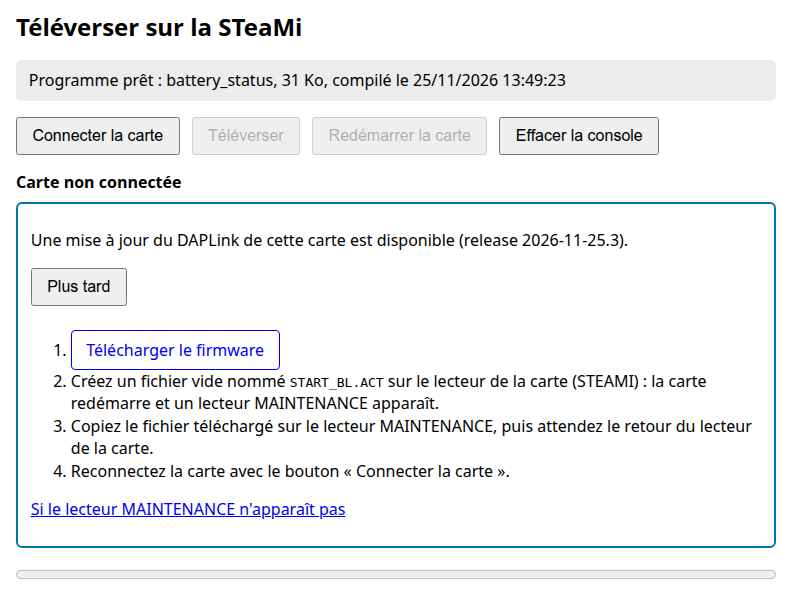
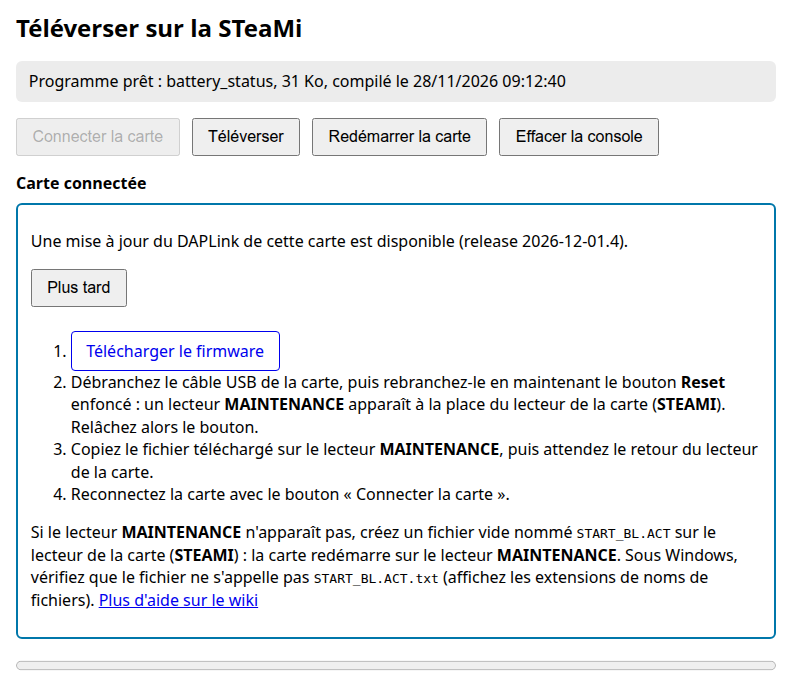
docs(software): capture de l'encart DAPLink avec l'étape Reset (image 2026.11.12)
La capture de la page Téléverser montre maintenant l'étape du bouton Reset et le secours START_BL.ACT de l'image 2026.11.12. La phrase sur les images jusqu'à 2026.11.11 reste, sans renvoyer à la capture.

Refs #261

diff --git a/docs/software/arduino/codespace.md b/docs/software/arduino/codespace.md
@@ -174,9 +174,9 @@ Cliquer sur **Mettre à jour…** affiche les étapes :
 3. Copier le fichier téléchargé sur le lecteur **MAINTENANCE**, puis attendre que le lecteur de la carte revienne.
 4. Cliquer sur **Connecter la carte** : si la mise à jour a réussi, l'encart disparaît.
 
-Jusqu'à la version 2026.11.11 de l'image, la page propose plutôt à l'étape 2 de créer un fichier vide `START_BL.ACT`, comme sur la capture ci-dessous : cette méthode fonctionne aussi.
+Jusqu'à la version 2026.11.11 de l'image, la page propose plutôt à l'étape 2 de créer un fichier vide `START_BL.ACT` : cette méthode fonctionne aussi.
 
-![Page Téléverser pendant la mise à jour : encart « Une mise à jour du DAPLink de cette carte est disponible (release 2026-11-25.3) » avec le bouton Plus tard, les quatre étapes (Télécharger le firmware, START_BL.ACT, copie sur MAINTENANCE, reconnexion) et le lien « Si le lecteur MAINTENANCE n'apparaît pas », sous l'état « Carte non connectée »](/img/software/arduino/codespace-15-mise-a-jour-daplink.png)
+![Page Téléverser pendant la mise à jour, carte connectée : encart « Une mise à jour du DAPLink de cette carte est disponible » avec le bouton Plus tard, les quatre étapes (Télécharger le firmware, rebrancher le câble en maintenant le bouton Reset, copie sur MAINTENANCE, reconnexion) et le secours START_BL.ACT suivi du lien « Plus d'aide sur le wiki »](/img/software/arduino/codespace-15-mise-a-jour-daplink.png)
 
 Cette mise à jour n'efface pas le programme de la carte. Si le lecteur **MAINTENANCE** n'apparaît pas, créer un fichier vide nommé `START_BL.ACT` sur le lecteur de la carte (**STEAMI**) : la carte redémarre sur le lecteur **MAINTENANCE**. Voir aussi [le dépannage](#le-bouton-redémarrer-la-carte-ne-fonctionne-pas).
 
